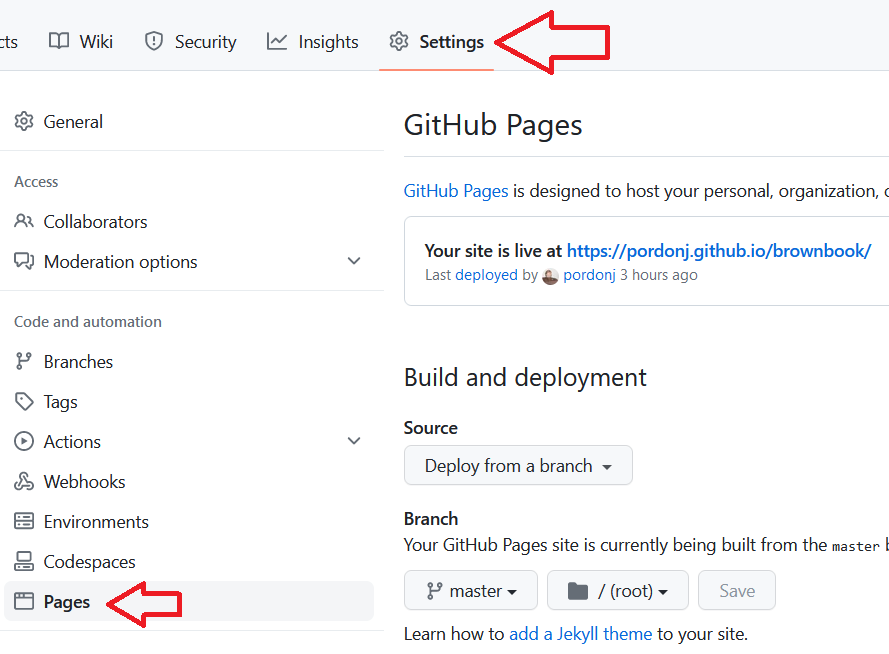
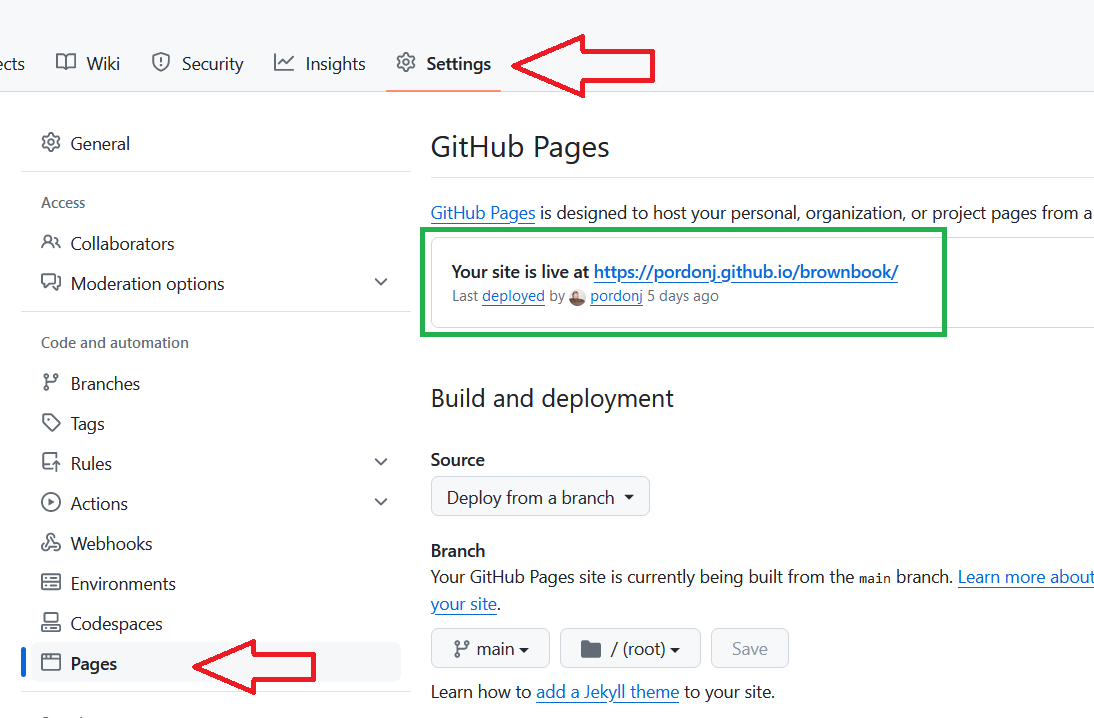
Update pages settings picture

diff --git a/contributing/github-guide.md b/contributing/github-guide.md
@@ -36,11 +36,10 @@ Next, we will set up your repository to build and display your repository data a
 
 Go to the Settings tab of your repository and select "Pages" on the left.
 
-**JTPTODO AFTER MERGE take new pic that shows main instead of master**
 ![Pages settings](./images/pages-settings.PNG)
 
 Match your settings with those in the picture above - namely "Deploy from a branch" and selecting "main" and "/ (root)". 
-Then click the Save button.
+Then click the Save button. The site deployment confirmation in the green box will only appear after your site has been deployed.
 
 Go back to the default (Code) tab of your repository and hit the gear in the About section on the left side.
 
